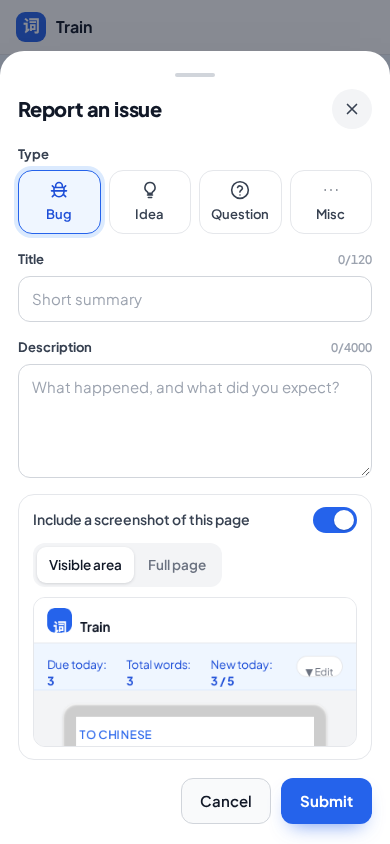
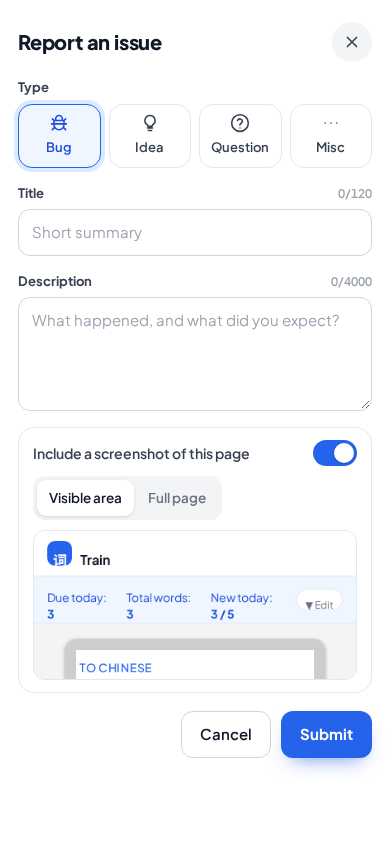
Stack progressive-mode tier rows on mobile; report dialog full-screen
- On small screens (≤879px), label and dropdown in #sec-progressive
  now stack vertically so the label is never truncated
- Report dialog is full-screen on mobile (was a 94vh bottom sheet)

diff --git a/service/frontend/app.css b/service/frontend/app.css
@@ -79,9 +79,9 @@ body { font-family: 'Plus Jakarta Sans', 'Noto Sans SC', system-ui, sans-serif; 
 .rp-card { position: relative; background: #fff; width: 100%; max-width: 520px; border-radius: 24px; box-shadow: 0 30px 60px -30px rgba(17,24,39,.5); max-height: 92vh; overflow: auto; padding: 22px clamp(18px,4vw,26px) 22px; }
 .rp-handle { display: none; width: 40px; height: 4px; border-radius: 99px; background: #d1d5db; margin: 0 auto 12px; }
 @media (max-width: 879px) {
-  .rp-scrim { align-items: flex-end; padding: 0; }
-  .rp-card { max-width: none; border-radius: 24px 24px 0 0; max-height: 94vh; padding-bottom: calc(20px + env(safe-area-inset-bottom)); }
-  .rp-handle { display: block; }
+  .rp-scrim { align-items: flex-start; padding: 0; }
+  .rp-card { max-width: none; border-radius: 0; max-height: none; height: 100dvh; padding-bottom: calc(20px + env(safe-area-inset-bottom)); }
+  .rp-handle { display: none; }
 }
 .rp-head { display: flex; align-items: center; justify-content: space-between; gap: 12px; margin-bottom: 16px; }
 .rp-title { margin: 0; font-size: 20px; font-weight: 800; color: #111827; letter-spacing: -0.01em; }
@@ -350,6 +350,7 @@ label.st-text { cursor: pointer; }
   .st-chips { display: flex; }
   .st-row-range { flex-direction: column; align-items: stretch; }
   .st-range { justify-content: flex-start; }
+  #sec-progressive .st-row { flex-direction: column; align-items: stretch; }
 }
 @media (max-width: 480px) {
   .st-row { flex-wrap: wrap; }
